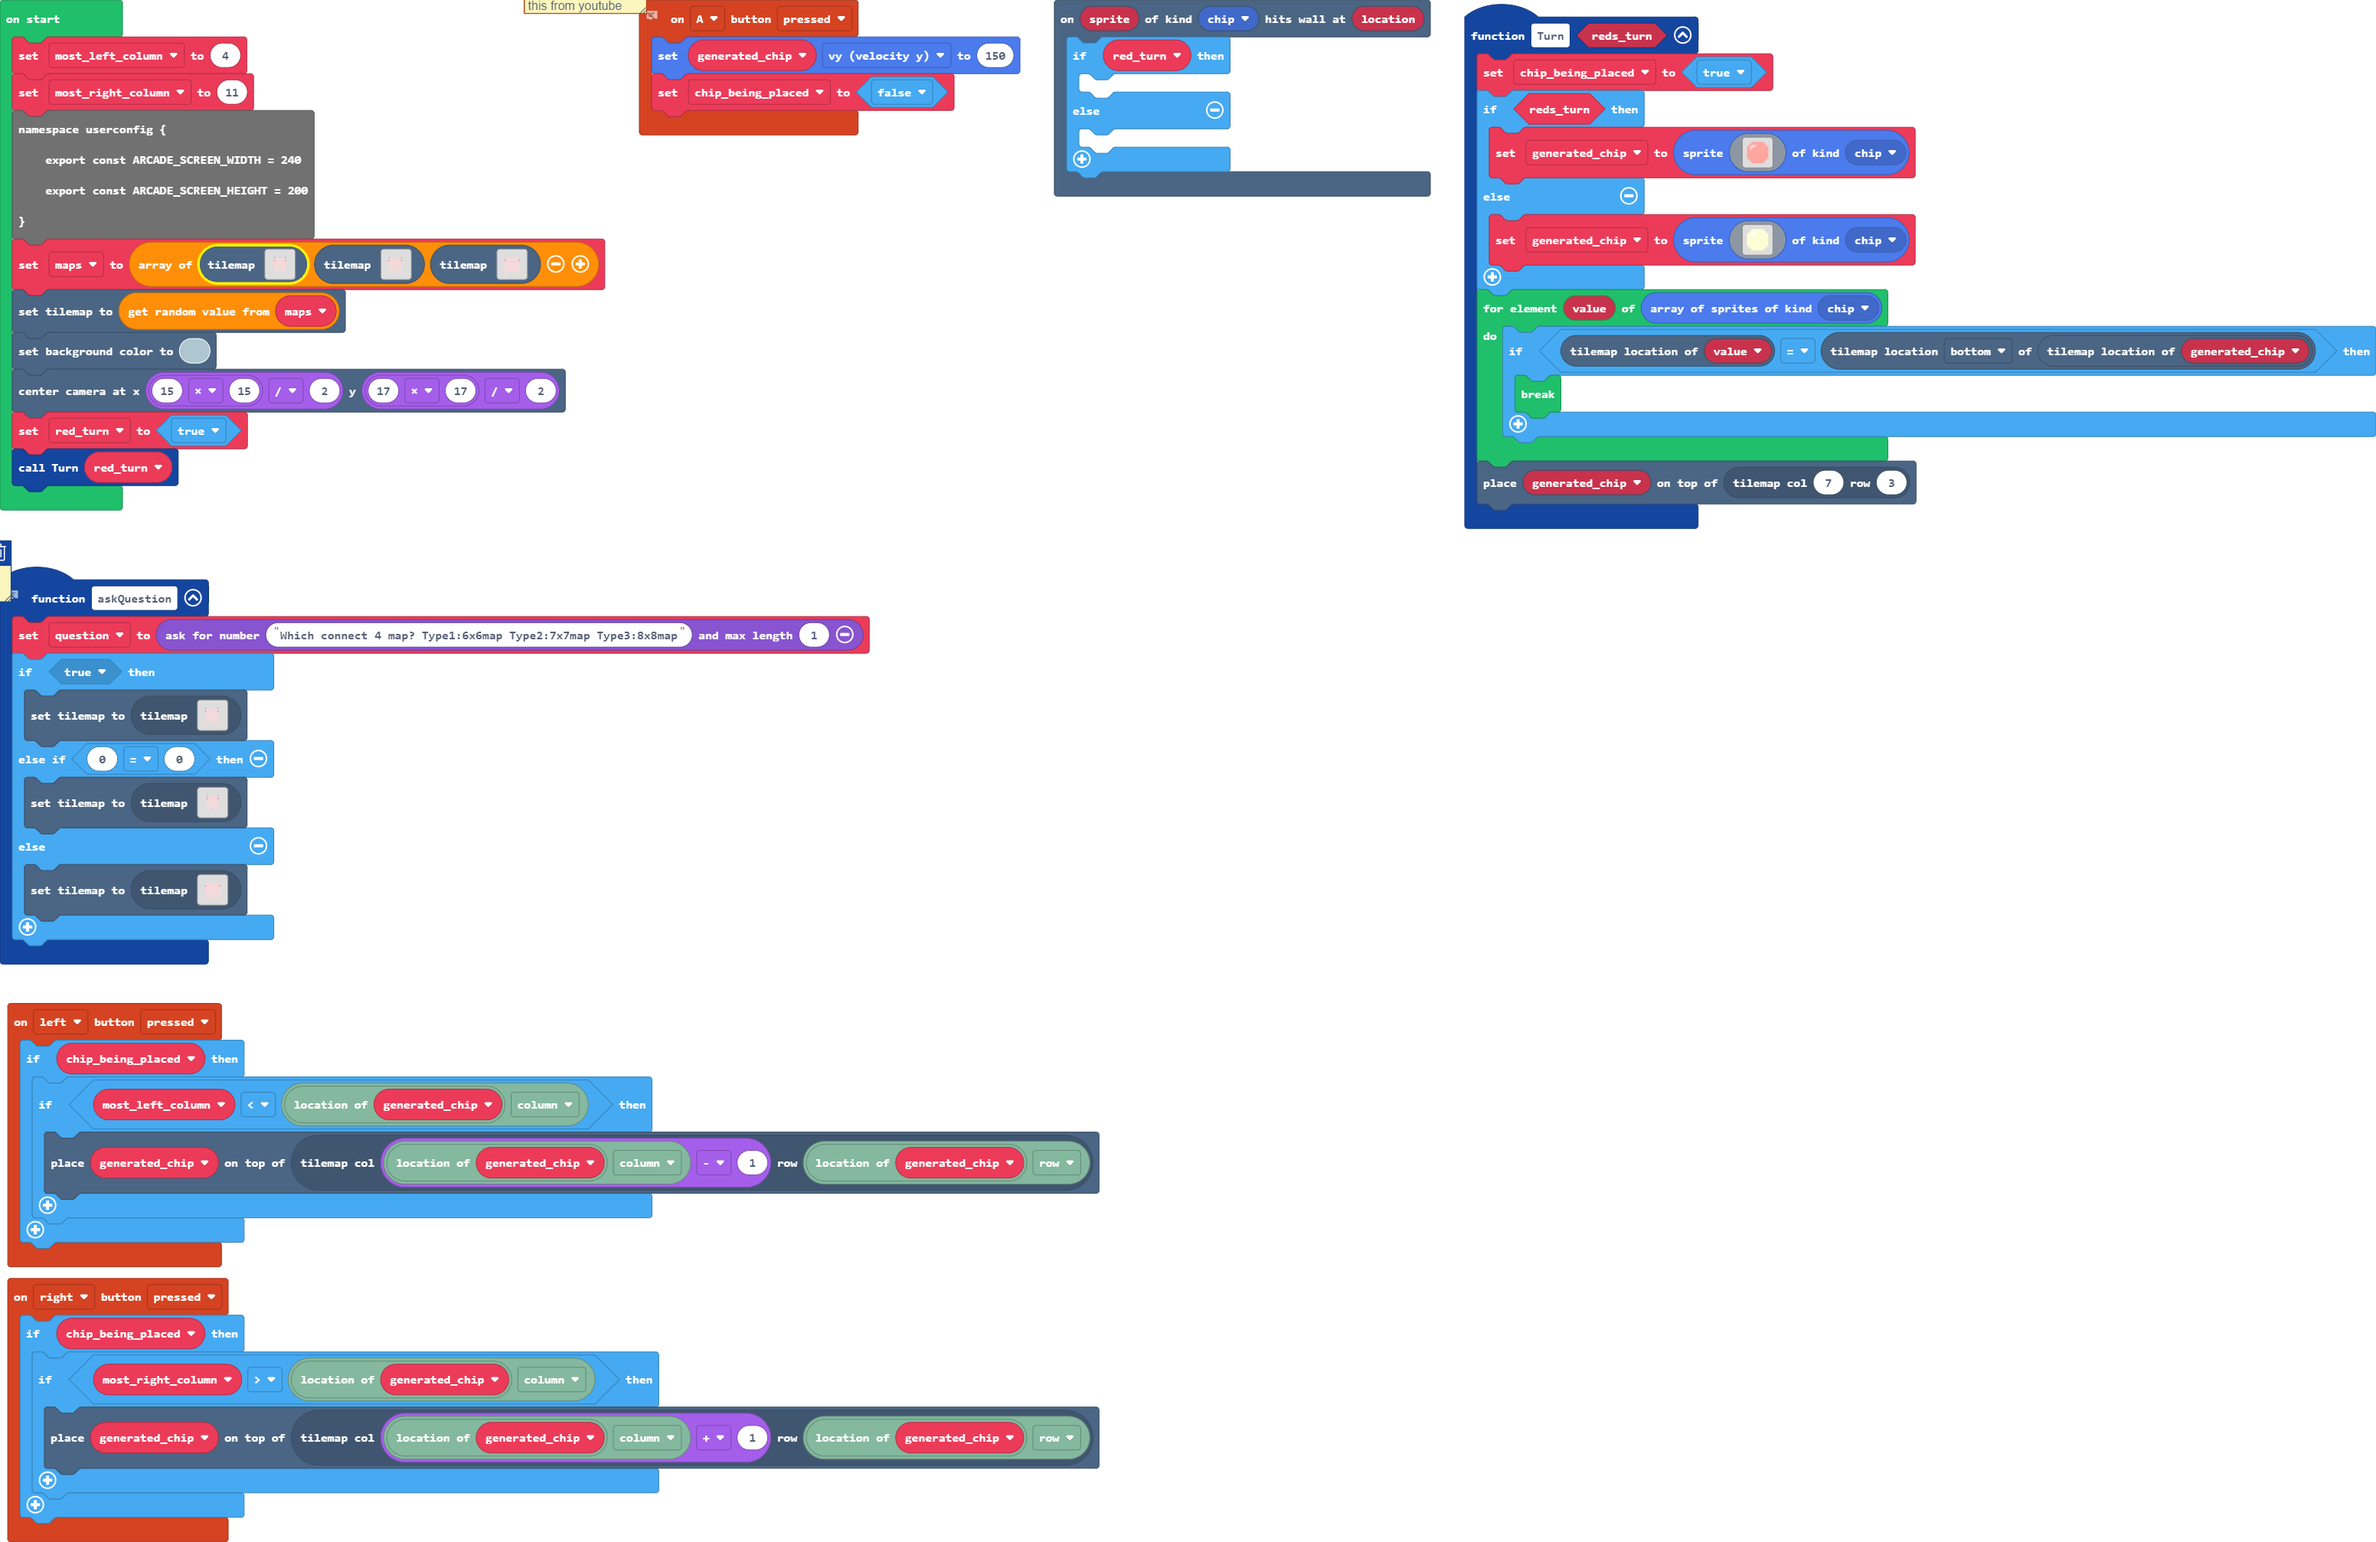
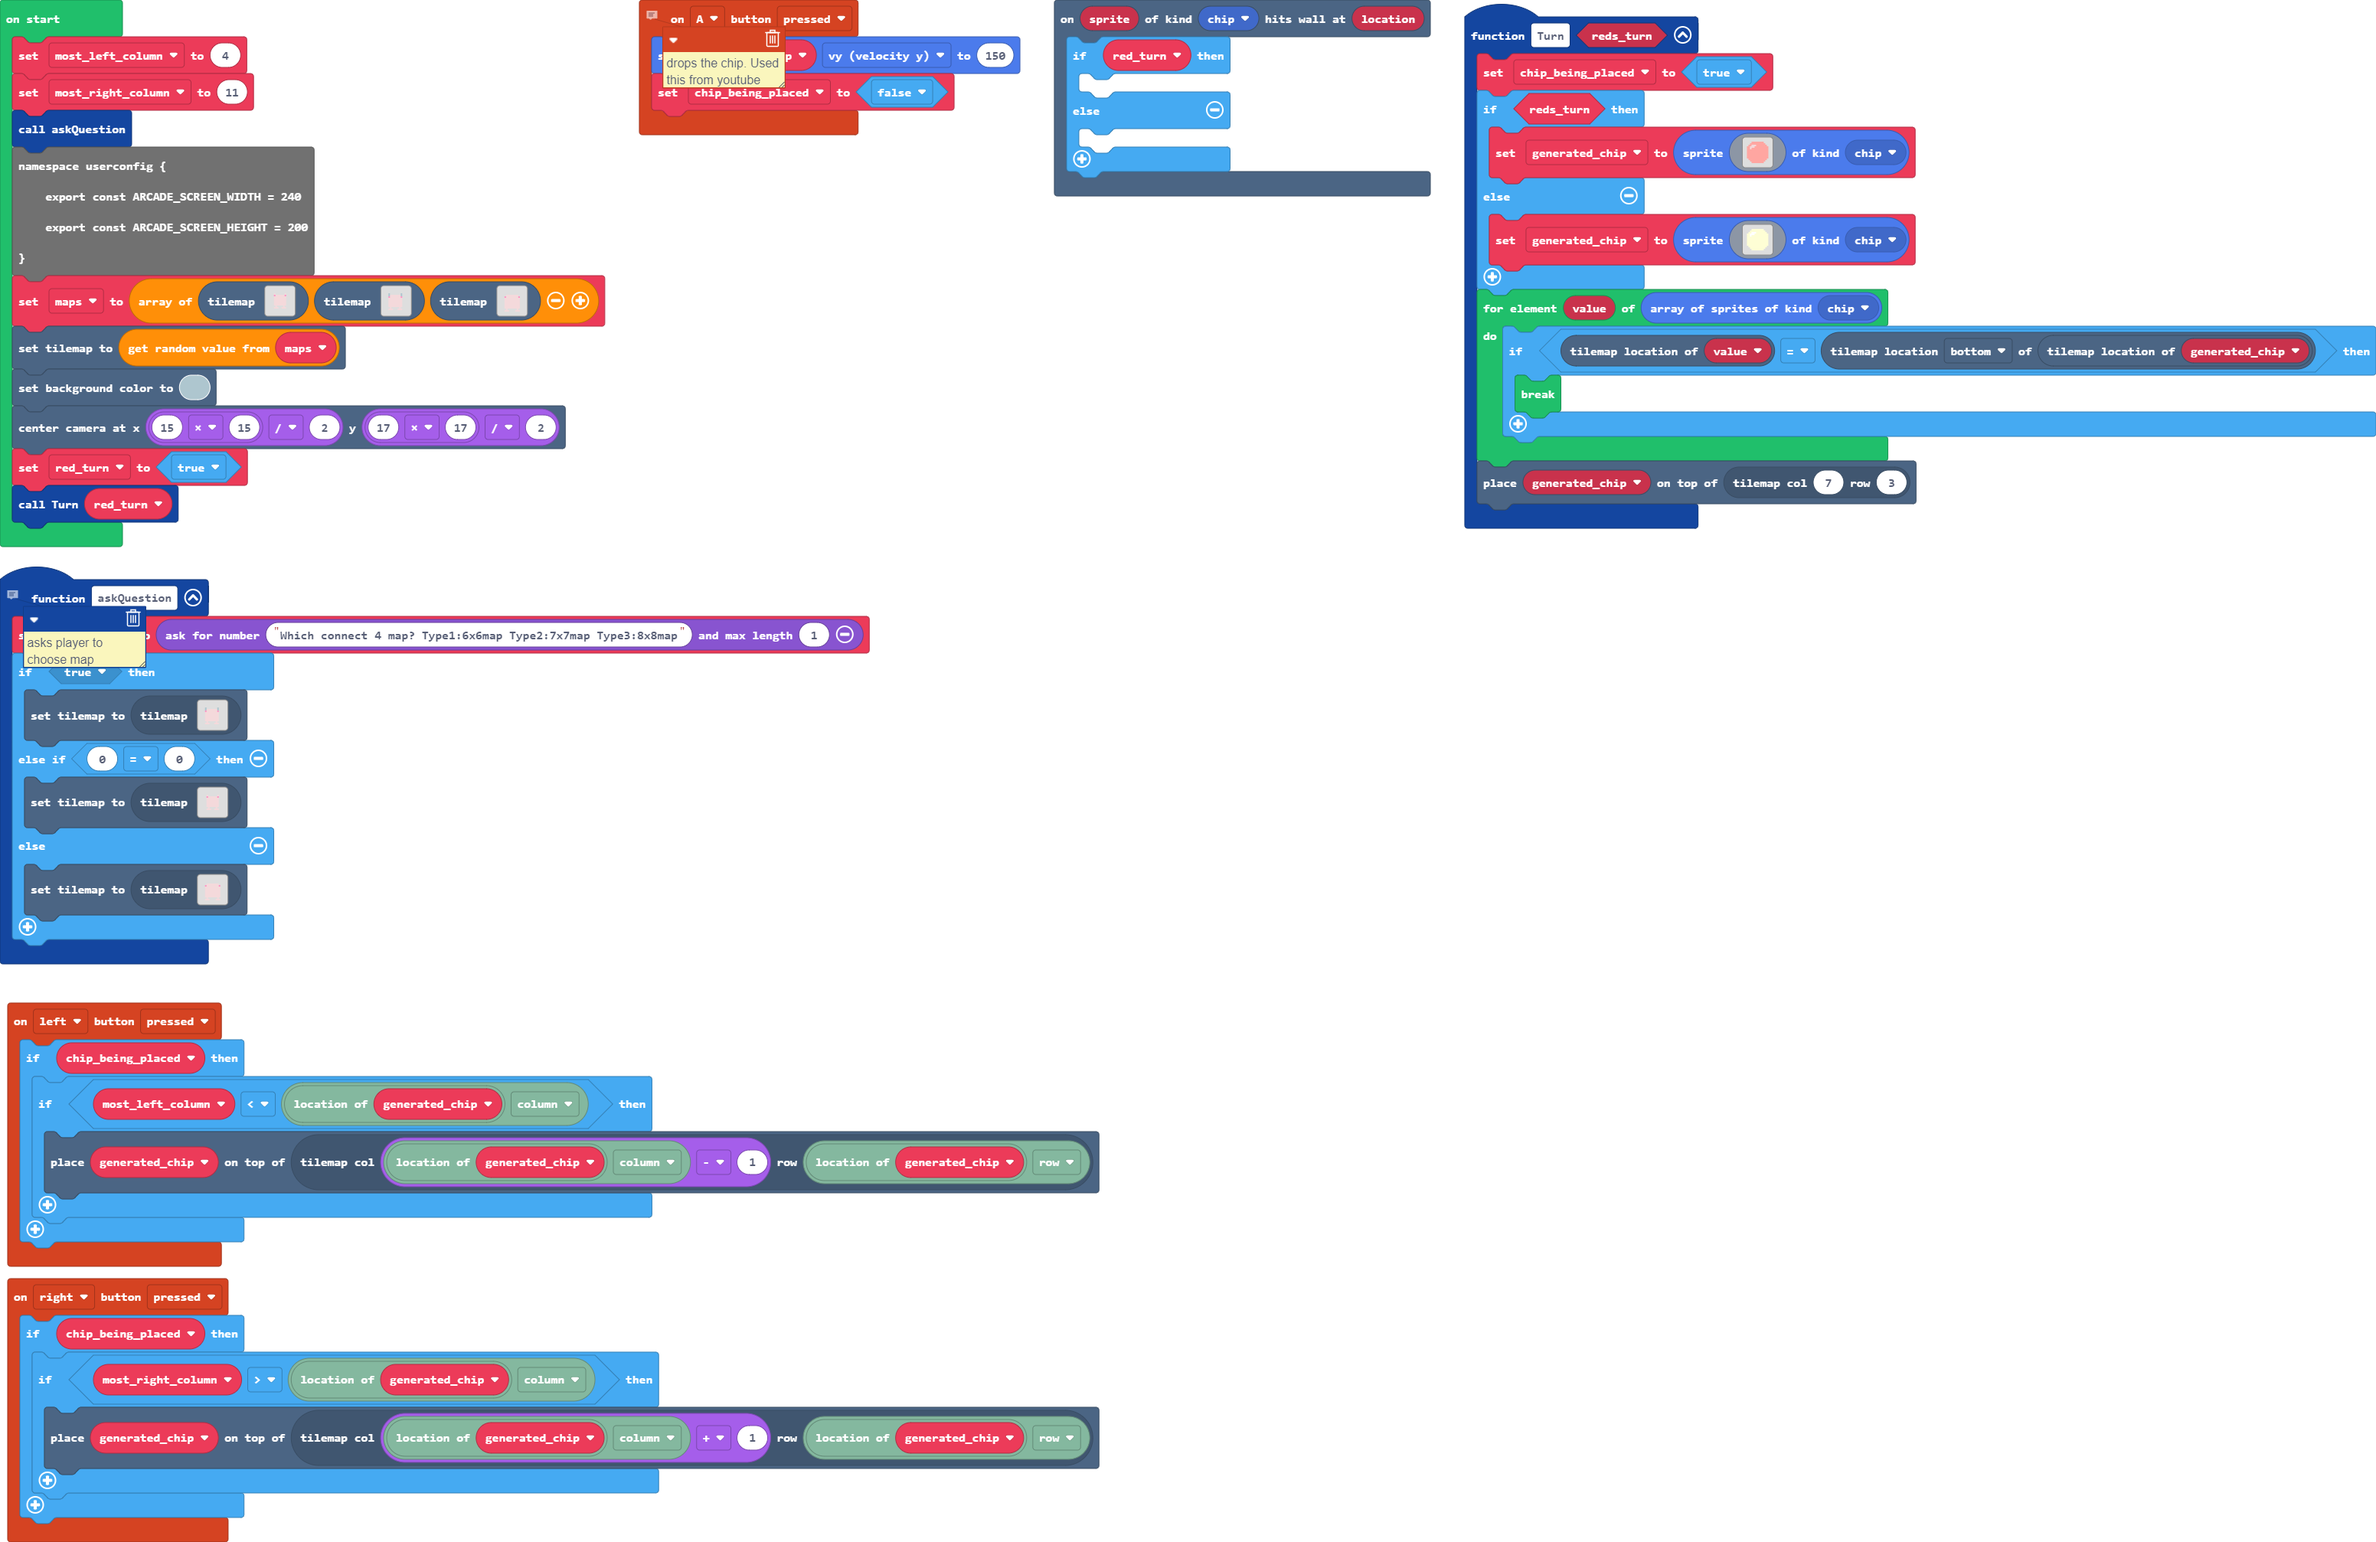
Update main.blocks, main.ts

diff --git a/main.ts b/main.ts
@@ -94,6 +94,7 @@ let most_right_column = 0
 let most_left_column = 0
 most_left_column = 4
 most_right_column = 11
+askQuestion()
 namespace userconfig {
     export const ARCADE_SCREEN_WIDTH = 240
     export const ARCADE_SCREEN_HEIGHT = 200
